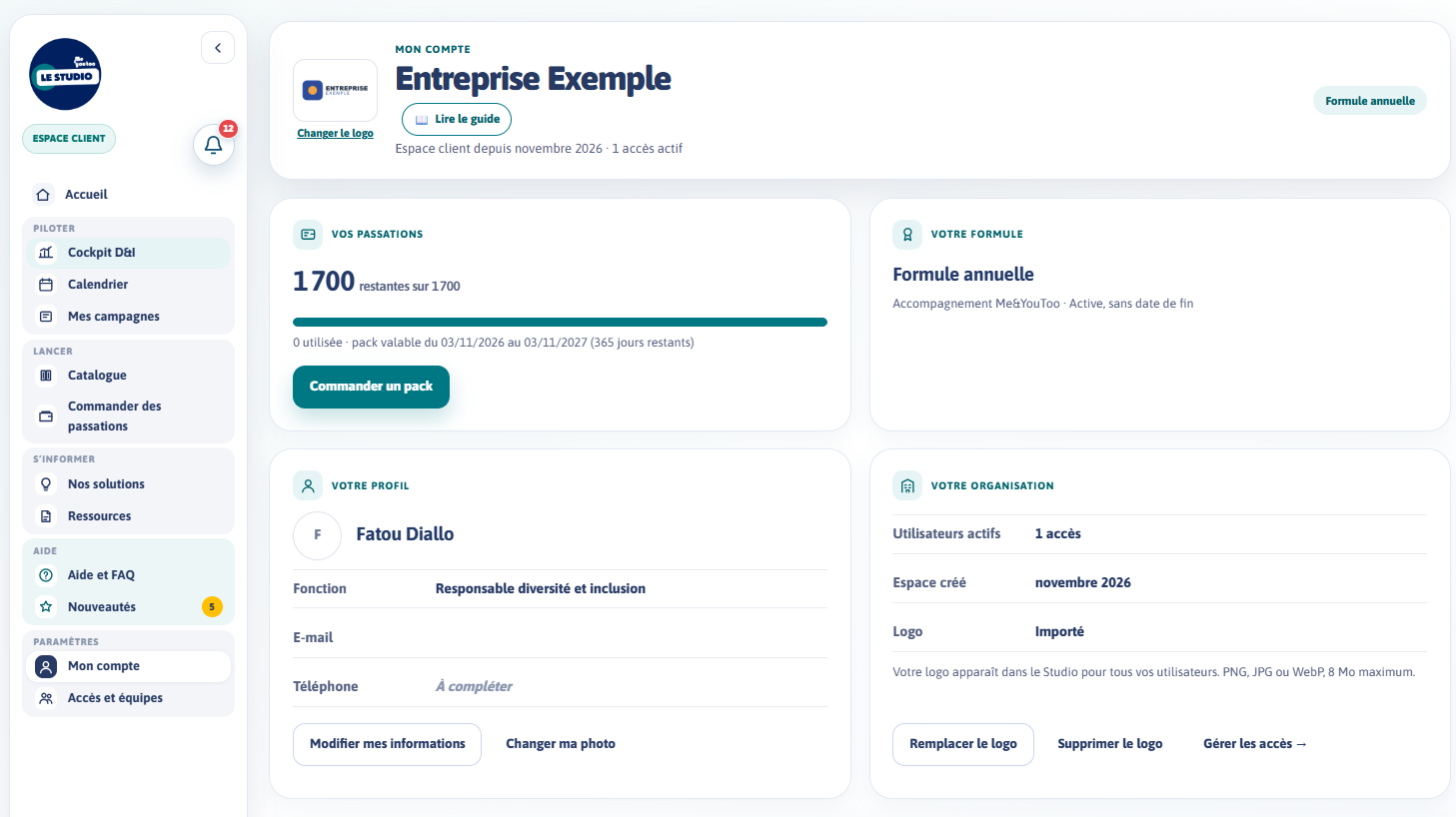
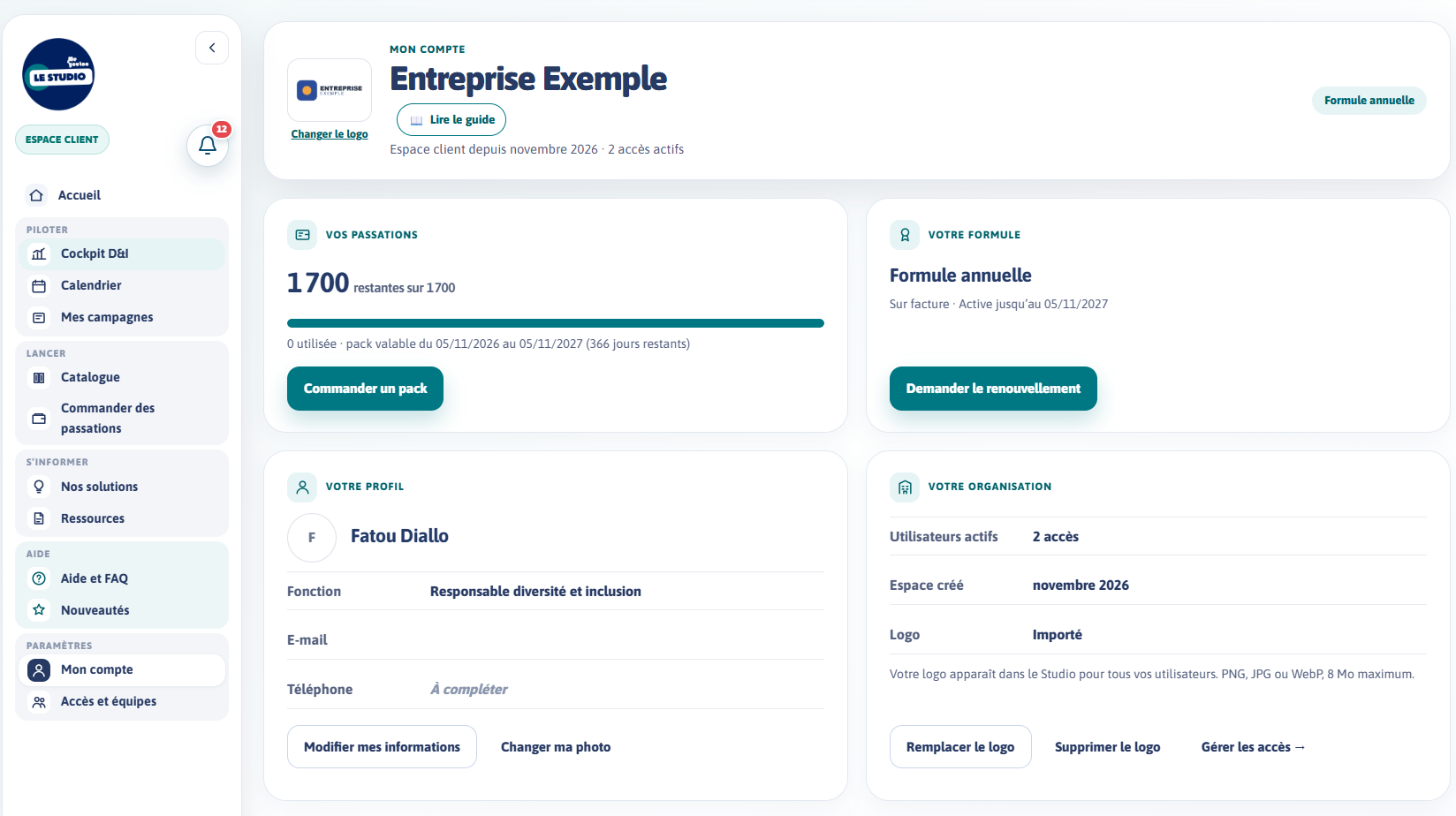
Tuto compte et accès : écrans 1 et 2 refaits avec la licence datée et Inès Morel

diff --git a/tutos/acces/index.html b/tutos/acces/index.html
@@ -11,7 +11,7 @@
 <div class="tuto" id="tuto"></div>
 <script>
 // Captures du 4 novembre 2026 : compte de démonstration Fatou Diallo, Entreprise Exemple (page entière à 88 %, 75 % pour la fenêtre « Ajouter un accès ») ; e-mails masqués.
-// La fenêtre « Ajouter un accès » a été ouverte puis annulée. Captures 5 à 8 (5 novembre 2026, après-midi) : nouvel encart et liste des campagnes de diagnostic ; « Qui voit quoi » avec Inès Morel, collègue fictive limitée au dossier Handicap. Un compte de test est masqué et les dossiers de test sont renommés à l’affichage.
+// La fenêtre « Ajouter un accès » a été ouverte puis annulée. Captures 1, 2 et 5 à 8 (5 novembre 2026, après-midi : licence et pack datés) : nouvel encart et liste des campagnes de diagnostic ; « Qui voit quoi » avec Inès Morel, collègue fictive limitée au dossier Handicap. Un compte de test est masqué et les dossiers de test sont renommés à l’affichage.
 // Cadres en % de la capture : [gauche, haut, largeur, hauteur]. Pour caler la voix : audio:'voix.mp3' et « at » (secondes) sur chaque plan.
 window.TUTO={
   eyebrow:'Tutoriel · Compte et accès',
@@ -21,8 +21,8 @@ window.TUTO={
     {img:'ecran-1.png',box:[18.4,24.3,81.2,28.4],text:'Dans « Mon compte », retrouvez votre solde de passations, la validité de votre pack et votre formule. Le solde est commun à toute l’entreprise.'},
     {img:'ecran-1.png',box:[18.4,55,40,43],text:'Votre profil regroupe votre fonction, votre e-mail et votre téléphone. Cliquez sur « Modifier mes informations » pour les tenir à jour, ou changez votre photo.'},
     {img:'ecran-1.png',box:[59.7,55,39.9,43],text:'Ajoutez le logo de votre organisation : c’est important, car il s’affiche partout. Il apparaît dans le Studio pour tous vos utilisateurs, sur votre Bilan D&I et au centre de vos QR codes. Sans logo, le QR code porte celui de Me&YouToo.'},
-    {img:'ecran-2.png',box:[18.4,55.5,81.2,9.8],text:'Vos campagnes et vos résultats ne sont visibles que par les personnes autorisées de votre organisation. Votre mot de passe se change ici.'},
-    {img:'ecran-2.png',box:[18.8,68.5,80.4,29.3],text:'Pour inviter un collègue, cliquez sur « Ajouter un accès ». Chaque compte s’affiche ici, avec son niveau d’accès et ce qu’il peut voir.'},
+    {img:'ecran-2.png',box:[18.1,47,81.5,9.9],text:'Vos campagnes et vos résultats ne sont visibles que par les personnes autorisées de votre organisation. Votre mot de passe se change ici.'},
+    {img:'ecran-2.png',box:[18.1,59.2,81.5,40.8],text:'Pour inviter un collègue, cliquez sur « Ajouter un accès ». Chaque compte s’affiche ici, avec son niveau d’accès et ce qu’il peut voir.'},
     {img:'ecran-3.png',box:[35.4,9.8,29.4,36.5],text:'Renseignez son prénom, son nom, sa fonction et son e-mail professionnel, puis choisissez son niveau d’accès dans la liste.'},
     {img:'ecran-3.png',box:[35.4,49,29.2,43],text:'Les droits s’ajustent un par un si besoin. Cliquez ensuite sur « Créer et inviter » pour ouvrir son compte et l’inviter.'},
     {img:'ecran-4.png',box:[20.4,29.4,77.4,13.4],text:'Dans « Accès et équipes », trois principes : le niveau d’accès dit ce qu’une personne peut faire, le périmètre ce qu’elle voit, et les dossiers regroupent campagnes et actions.'},
